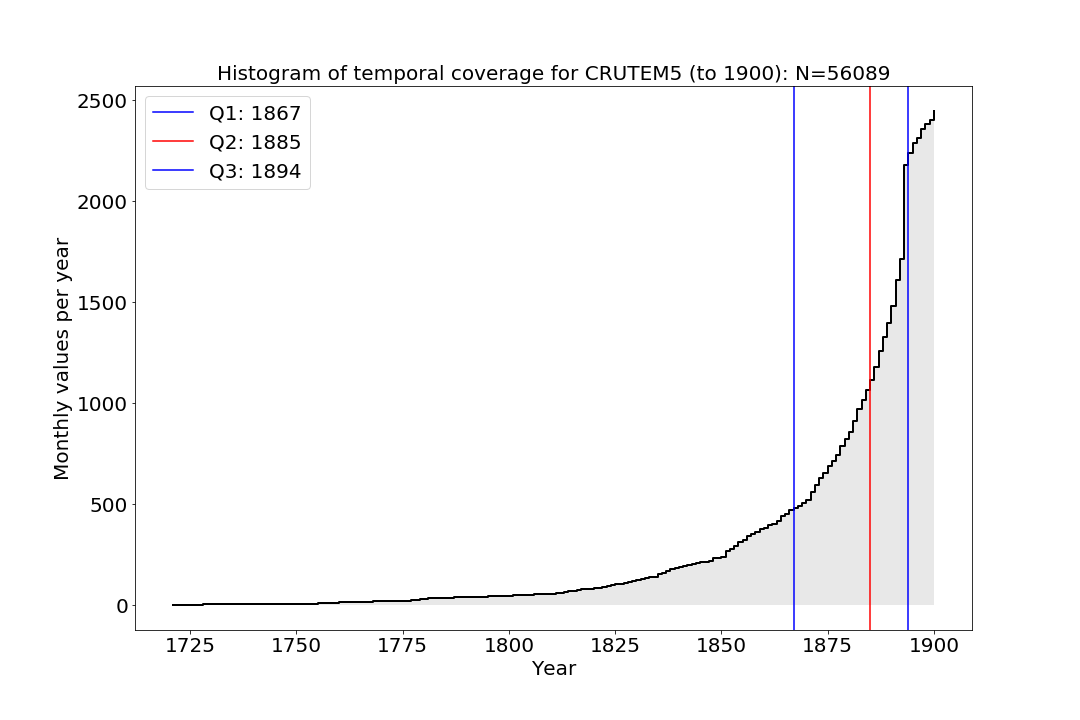
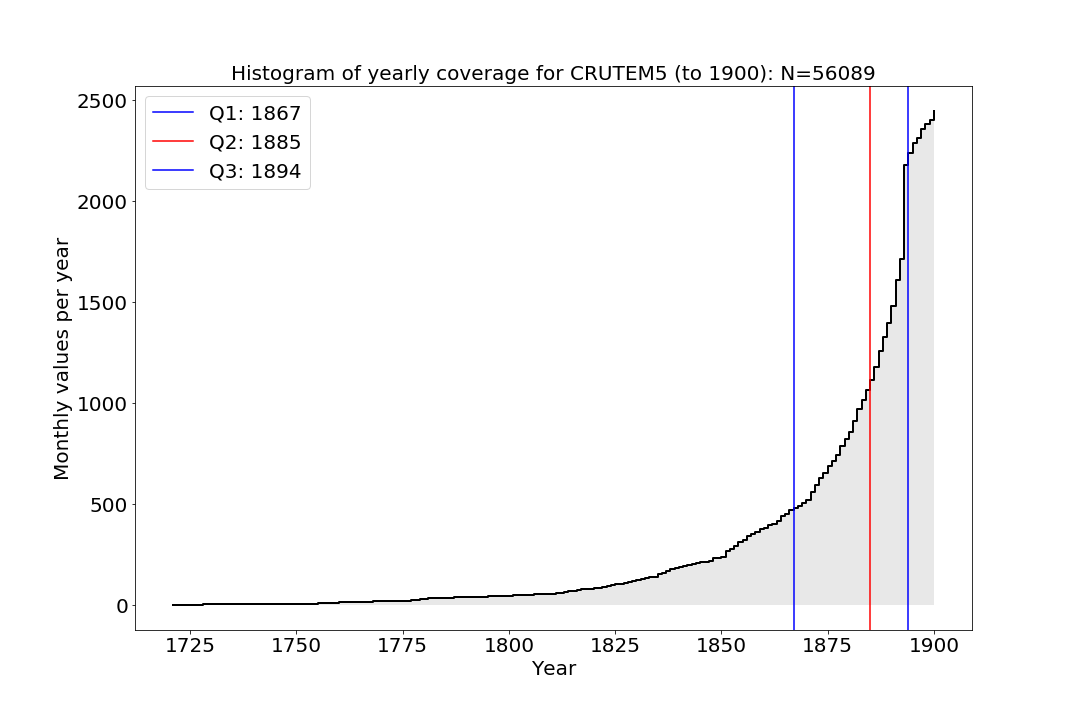
Additional logic to handle parsing of miscontructed station headers. Fixed problem of wrong fillvalue (=-9999) for some stations.

Changed region(s): [[0.1833, 0.0917, 0.825, 0.1222]]

diff --git a/plot-prelim-stations.py b/plot-prelim-stations.py
@@ -128,25 +128,62 @@ def load_dataframe(filename_txt):
                 if (len(line.strip().split())!=13) | (len(line.split()[0])>4):   
                     # when line is stationinfo extract stationid and stationname
                     info = line.strip().split()
+                    country = info[-4]
                     if len(info[0]) == 6:
                         code = info[0]
-                        country = line.strip().split()[-4]
-                        lon = line.strip().split()[1]
-                        lat = line.strip().split()[2]
-                        if (len(lon) < 5) & (lon[1:].isdigit()):
-                            lon = float(lon)
+                        if info[1][1:].isdigit():
+                            lat = int(info[1])                            
+                            if info[2][1:].isdigit():
+                                lon = int(info[2])
+                            else:
+                                split = info[2].split('-')
+                                if split[0].isdigit():
+                                    lon = int(split[0])
+                                else:
+                                    lon = int('-' + split[1])                            
                         else:
-                            lon = np.nan
-                        if (len(lat) < 5) & (lat[1:].isdigit()):
-                            lat = float(lat)
-                        else:
-                            lat = np.nan
+                            split = info[1].split('-')  
+                            if len(split) == 2:
+                                lat = int(split[0])
+                                lon = int('-' + split[1])
+                            elif len(split) > 2:
+                                if split[0].isdigit():                                    
+                                    lat = int(split[0])                                 
+                                    lon = int('-' + split[1])                                                                  
+                                else:
+                                    lat = int('-' + split[1])                                 
+                                    lon = int('-' + split[2])                                 
                     else:
-                        code = np.nan
-                        country = np.nan
+                        code = info[0][0:6]   
+                        split = info[0].split('-')
+                        if len(split) == 2:
+                            lat = int(split[1])
+                            if info[1].isdigit():
+                                lon = int(info[1])                                
+                            else:
+                                split = info[1].split('-')                                
+                                if split[0].isdigit():
+                                    lon = int(split[0])
+                                else:
+                                    lon = int('-' + split[1])                                                            
+                        elif len(split) == 3:
+                            lat = int('-' + split[1])                            
+                            lon = int('-' + split[2])                            
+                        elif len(split) == 4:
+                            lat = int('-' + split[1])                            
+                            lon = int('-' + split[2])                                                        
+                        else:
+                            print(line)
+                            lat = np.nan
+                            lon = np.nan
+                            
+                    if lat == -999: lat = np.nan
+                    if lon == -9999: lon = np.nan
+                            
                 else:           
                     # append monthly anomalies in [K] & station: lat, lon, id, name 
-                    yearlist.append(np.array(line.strip().split()[0]).astype('int'))                                 
+#                    yearlist.append(np.array(line.strip().split()[0]).astype('int'))                                 
+                    yearlist.append(int(line.strip().split()[0]))                                 
                     monthlist.append(np.array(line.strip().split()[1:]).astype('int'))                                 
                     stationinfo.append(info) # store for flagging
                     stationcode.append(code)
@@ -204,19 +241,44 @@ lon_min = df['stationlon'].min()
 lon_max = df['stationlon'].max()
 lat_start = -900
 lat_end = 900
-lon_start = 0
-lon_end = 3600
+lon_start = -1800
+lon_end = 1800
 station_start=0
 station_end=10
 
 
+#df['stationlat'].isnull().sum()
+dlat = df[df['stationlat'].isnull()]
+dlon = df[df['stationlon'].isnull()]
+dcode = df[df['stationcode'].isnull()]
+    
+
+for i in range(len(dlat['stationcode'].unique())):
+    station = list(dlat[dlat['stationcode']==dlat['stationcode'].unique()[i]]['stationinfo'])[0]
+    print(station)
+
+for i in range(len(dlon['stationcode'].unique())):
+    station = list(dlon[dlon['stationcode']==dlon['stationcode'].unique()[i]]['stationinfo'])[0]
+    print(station)
+        
+# dlat and dlon fails: 
+# array(['085997', '685807', '688607', '967811', '999099', '999216'], dtype=object)
+
+#['085997-999-9999', '100', 'SERRO', 'DO', 'PILAR', 'PORTUGAL', '19011930', '101901', '0']
+#['685807-999-9999-9999', 'PIETERMARITZBERG', 'SOUTH', 'AFRICA', '18701886', '101870', '0']
+#['688607-999-9999-9999', 'GRAHAMSTOWN', 'SOUTH', 'AFRICA', '18551870', '101855', '0']
+#['967811-999-9999', '1400', 'TJIBODAS', 'INDONESIA', '19051948', '101905', '0']
+#['999096-341-9999-9999', 'BREAKSEA', 'AUSTRALIA', '18971899', '101897', '0']
+#['999099-999-9999-9999', 'LONDON', 'AUSTRALIA', '18971899', '101897', '0']
+#['999216-999-9999-9999', 'LAS', 'DELICIAS', 'ARGENTINA', '19251964', '101925', '0']
+    
 #------------------------------------------------------------------------------
 # PLOTS
 #------------------------------------------------------------------------------
 
 if plot_temporal_coverage == True:
     
-    # PLOT: histogram of yearly coverage
+    # PLOT: histogram of temporal coverage: to 1900
           
     nbins = year_end - year_start + 1
     bins = np.linspace(year_start, year_end, nbins) 
@@ -227,7 +289,7 @@ if plot_temporal_coverage == True:
     Q3 = pd.Series(bins).iloc[(pd.Series(np.cumsum(counts))-np.sum(counts)*0.75).abs().argsort()[:1]].values[0]
              
     figstr = 'crutem5-histogram-1900.png'
-    titlestr = 'Histogram of temporal coverage for CRUTEM5 (to 1900): N=' + "{0:.0f}".format(np.sum(counts))
+    titlestr = 'Histogram of yearly coverage for CRUTEM5 (to 1900): N=' + "{0:.0f}".format(np.sum(counts))
 
     fig, ax = plt.subplots(figsize=(15,10))          
 #    plt.hist(df[df['year']<1901]['year'], bins=nbins, density=True, facecolor='grey', alpha=0.5, label='KDE')
@@ -245,6 +307,8 @@ if plot_temporal_coverage == True:
     plt.savefig(figstr)
     plt.close(fig)
 
+    # PLOT: histogram of temporal coverage: full record
+
     nbins = year_max - year_start + 1
     bins = np.linspace(year_start, year_max, nbins) 
     counts, edges = np.histogram(df['year'], nbins, range=[year_start,year_max+1], density=False)    
@@ -253,7 +317,7 @@ if plot_temporal_coverage == True:
     Q3 = pd.Series(bins).iloc[(pd.Series(np.cumsum(counts))-np.sum(counts)*0.75).abs().argsort()[:1]].values[0]
              
     figstr = 'crutem5-histogram-full.png'
-    titlestr = 'Histogram of temporal coverage for CRUTEM5 (full): N=' + "{0:.0f}".format(np.sum(counts)) 
+    titlestr = 'Histogram of yearly coverage for CRUTEM5 (full): N=' + "{0:.0f}".format(np.sum(counts)) 
 
     fig, ax = plt.subplots(figsize=(15,10))          
     plt.fill_between(bins, counts, step="post", facecolor='lightgrey', alpha=0.5)
@@ -271,7 +335,7 @@ if plot_temporal_coverage == True:
 
 if plot_spatial_coverage == True:
     
-    # PLOT: histogram of latitudinal coverage: NB: scale is lat[-900,900] and lon[0,3600]
+    # PLOT: histogram of latitudinal coverage: NB: scale is lat[-900,900]
 
     nbins = int((lat_end - lat_start)/10) + 1
     bins = np.linspace(lat_start, lat_end, nbins) 
@@ -280,7 +344,7 @@ if plot_spatial_coverage == True:
     Q2 = pd.Series(bins).iloc[(pd.Series(np.cumsum(counts))-np.sum(counts)*0.50).abs().argsort()[:1]].values[0]
     Q3 = pd.Series(bins).iloc[(pd.Series(np.cumsum(counts))-np.sum(counts)*0.75).abs().argsort()[:1]].values[0]
 
-    figstr = 'crutem5-histogram-latlon-full.png'
+    figstr = 'crutem5-histogram-lat-full.png'
     titlestr = 'Histogram of latitudinal coverage: CRUTEM5 (full)'
 
     fig, ax = plt.subplots(figsize=(15,10))          
@@ -307,7 +371,7 @@ if plot_spatial_coverage == True:
     Q3 = pd.Series(bins).iloc[(pd.Series(np.cumsum(counts))-np.sum(counts)*0.75).abs().argsort()[:1]].values[0]
 
     figstr = 'crutem5-histogram-lon-full.png'
-    titlestr = 'Histogram of longitudinal spatial coverage: CRUTEM5 (full)'
+    titlestr = 'Histogram of longitudinal coverage: CRUTEM5 (full)'
 
     fig, ax = plt.subplots(figsize=(15,10))          
     plt.fill_between(bins/10, counts, step="post", facecolor='lightgrey', alpha=0.5)
@@ -392,8 +456,8 @@ if plot_locations == True:
     
     # PLOT: quick plot of stations on world map
 
-    x = -df['stationlon']/10
-    y = df['stationlat']/10
+    lon = -df['stationlon']/10
+    lat = df['stationlat']/10
     
     figstr = 'location_map.png'
     titlestr = 'Station locations'
@@ -417,8 +481,8 @@ if plot_locations == True:
     gl.xlocator = mticker.FixedLocator([-180,-120,-60,0,60,120,180])
     gl.ylocator = mticker.FixedLocator([-90,-60,-30,0,30,60,90])
     gl.xformatter = LONGITUDE_FORMATTER
-    gl.yformatter = LATITUDE_FORMATTER    
-    plt.scatter(x=x, y=y, 
+    gl.yformatter = LATITUDE_FORMATTER        
+    plt.scatter(x=lon, y=lat, 
                 color="dodgerblue", s=1, alpha=0.5,
                 transform=ccrs.PlateCarree()) 
     plt.title(titlestr, fontsize=fontsize)
